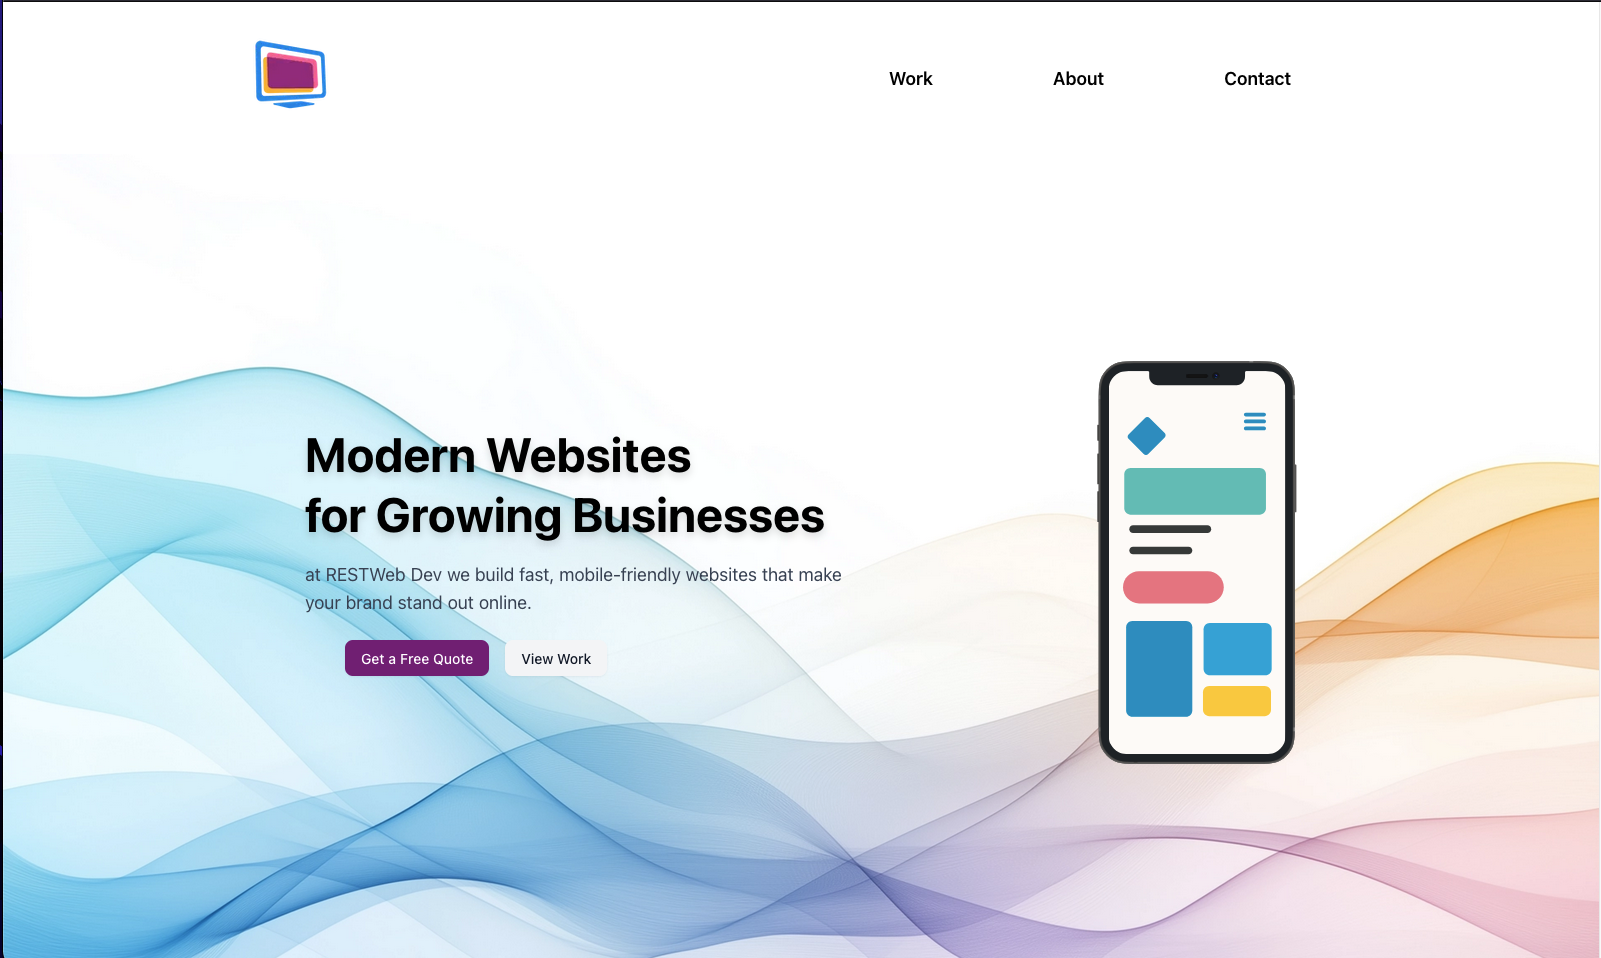
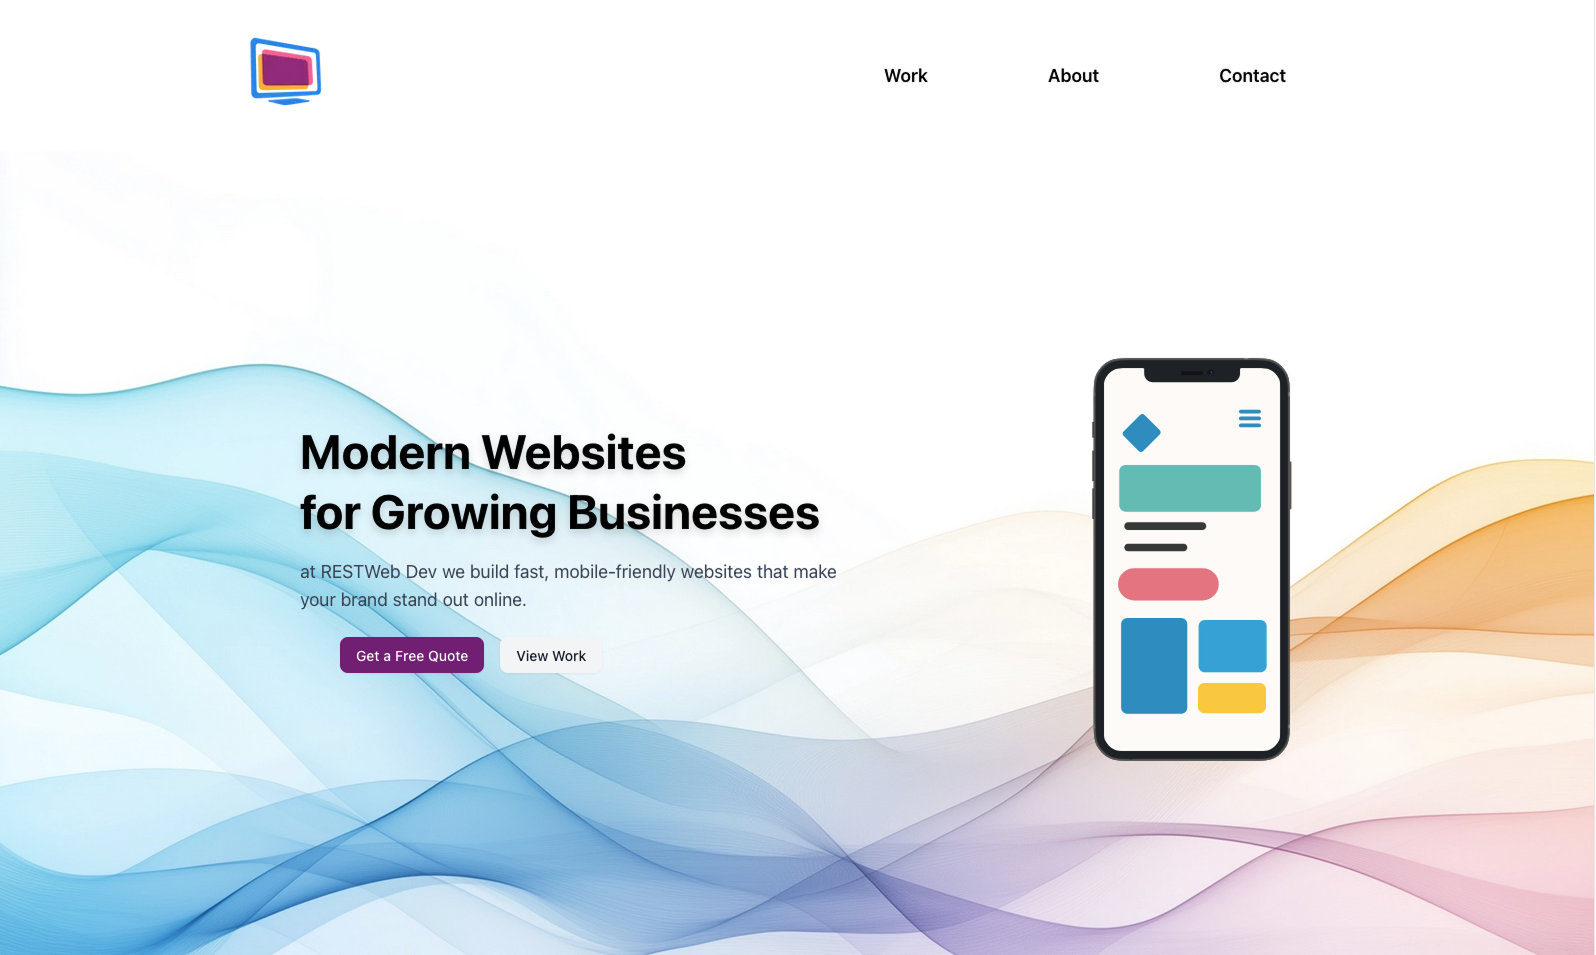
Fixing metadata and cropping

diff --git a/src/app/layout.tsx b/src/app/layout.tsx
@@ -24,7 +24,7 @@ export const metadata: Metadata = {
     "SEO-friendly websites",
   ],
   openGraph: {
-    title: "Small Business Web Development | RESTWeb Dev",
+    title: "RESTWeb Dev | Small Business Web Development",
     description:
       "Professional website design & development services for small businesses.",
     url: "https://restweb.dev/",
@@ -42,7 +42,7 @@ export const metadata: Metadata = {
   },
   twitter: {
     card: "summary_large_image",
-    title: "Small Business Web Development | RESTWeb Dev",
+    title: "RESTWeb Dev | Small Business Web Development",
     description:
       "We build affordable, SEO-optimized websites for small businesses.",
     images: ["https://restweb.dev/images/og-image.jpg"],
